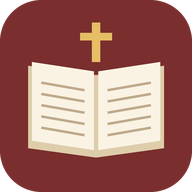
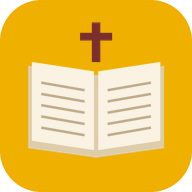
Add files via upload

diff --git a/pwa.ts b/pwa.ts
@@ -49,6 +49,9 @@ export function formatBuildTime(iso: string) {
 }
 
 export const CHANGELOG: [string, string[]][] = [
+  ['1.5.1', [
+    '앱 아이콘 바탕색을 진한 노랑으로 (십자가는 갈색)',
+  ]],
   ['1.5.0', [
     '해설: 절을 고르고 "해설" → AI 구절 해설 (문맥·배경·뜻·적용·기도)',
     '관련 구절(관주): 연결된 성경 구절을 바로 보고 이동 (인터넷 없이)',

diff --git a/README.md b/README.md
@@ -5,15 +5,16 @@
 
 ---
 
-## 🆕 업데이트 방법 (이미 설치해서 쓰고 있다면 여기만 하세요) — v1.5.0
+## 🆕 업데이트 방법 (이미 설치해서 쓰고 있다면 여기만 하세요) — v1.5.1
 
-1. 새 **`SK-성경-앱-v1.5.0.zip`**을 내려받아 **압축 풀기** → 파일 50개
+1. 새 **`SK-성경-앱-v1.5.1.zip`**을 내려받아 **압축 풀기** → 파일 50개
 2. GitHub 저장소 **psungkim-svg/sk-bible** → **Add file → Upload files** → **choose your files**
    → 압축 푼 폴더에서 **Ctrl + A** → **열기** → 50개가 다 올라가면 **Commit changes**
    (같은 이름 파일은 자동으로 새 것으로 바뀝니다. v1.5.0에서 새로 생긴 파일 6개: `bookinfo.ts`, `study.ts`, `StudyView.tsx`, `ChapterInfo.tsx`, `MemoryView.tsx`, `xref.json`(관련 구절 자료). GitHub에 예전 `bsb-headings.json`이 남아 있어도 괜찮습니다 — 쓰지 않는 파일이라 그냥 두셔도 됩니다)
+   > 🎨 v1.5.1: 앱 아이콘이 **진한 노랑 바탕**으로 바뀝니다. Chrome으로 설치했다면 앱을 몇 번 켜면 보통 하루 이틀 안에 홈 화면 아이콘도 저절로 바뀝니다. 계속 안 바뀌면 ① **설정 → 백업 파일 내보내기**로 북마크·암송을 먼저 저장 → ② 홈 화면 아이콘을 길게 눌러 삭제 ("데이터도 삭제"를 묻으면 체크하지 않기) → ③ 앱 주소로 들어가 **홈 화면에 추가** → ④ 내용이 비어 있으면 **설정 → 백업 불러오기**.
 3. 1~2분 뒤 Cloudflare **sk-bible → Deployments**에 ✓ 가 뜨면 끝
 4. 폰에서 SK-성경을 **껐다 켜면** 자동으로 새 버전으로 바뀝니다.
-   **설정 → 맨 아래 "버전"**에 `v1.5.0`이 보이면 성공입니다. (안 바뀌면 "최신 버전 확인" → "지금 업데이트")
+   **설정 → 맨 아래 "버전"**에 `v1.5.1`이 보이면 성공입니다. (안 바뀌면 "최신 버전 확인" → "지금 업데이트")
 
 > 💡 AI 기능(문장 찾기 설명, 원어 해설, 장 주제·배경, 구절 해설, 낱말·인물)은 Cloudflare **Workers AI** 무료 사용량(하루 1만 뉴런)을 함께 씁니다.
 > 따로 가입하거나 설정할 것은 없습니다. 한 번 만든 결과는 폰에 저장되어 다시 볼 때는 사용량이 들지 않습니다.
@@ -40,7 +41,7 @@
 
 ## 1단계. 앱 파일 받기 (컴퓨터에서) 💻
 
-1. 작업 공간의 **`SK-성경-앱-v1.5.0.zip`** 파일을 컴퓨터로 내려받습니다.
+1. 작업 공간의 **`SK-성경-앱-v1.5.1.zip`** 파일을 컴퓨터로 내려받습니다.
 2. 파일을 **마우스 오른쪽 버튼 → "압축 풀기"(또는 "모두 압축 풀기")** 합니다.
 3. 폴더 안에 **파일 44개**가 폴더 없이 한 곳에 들어 있습니다. (`App.tsx`, `index.html`, `nkrv.json`, `package.json`, `wrangler.jsonc` …)
    - 이 앱은 일부러 **폴더 없이** 만들었습니다. 그래서 파일을 한 번에 골라 올리기만 하면 됩니다.
